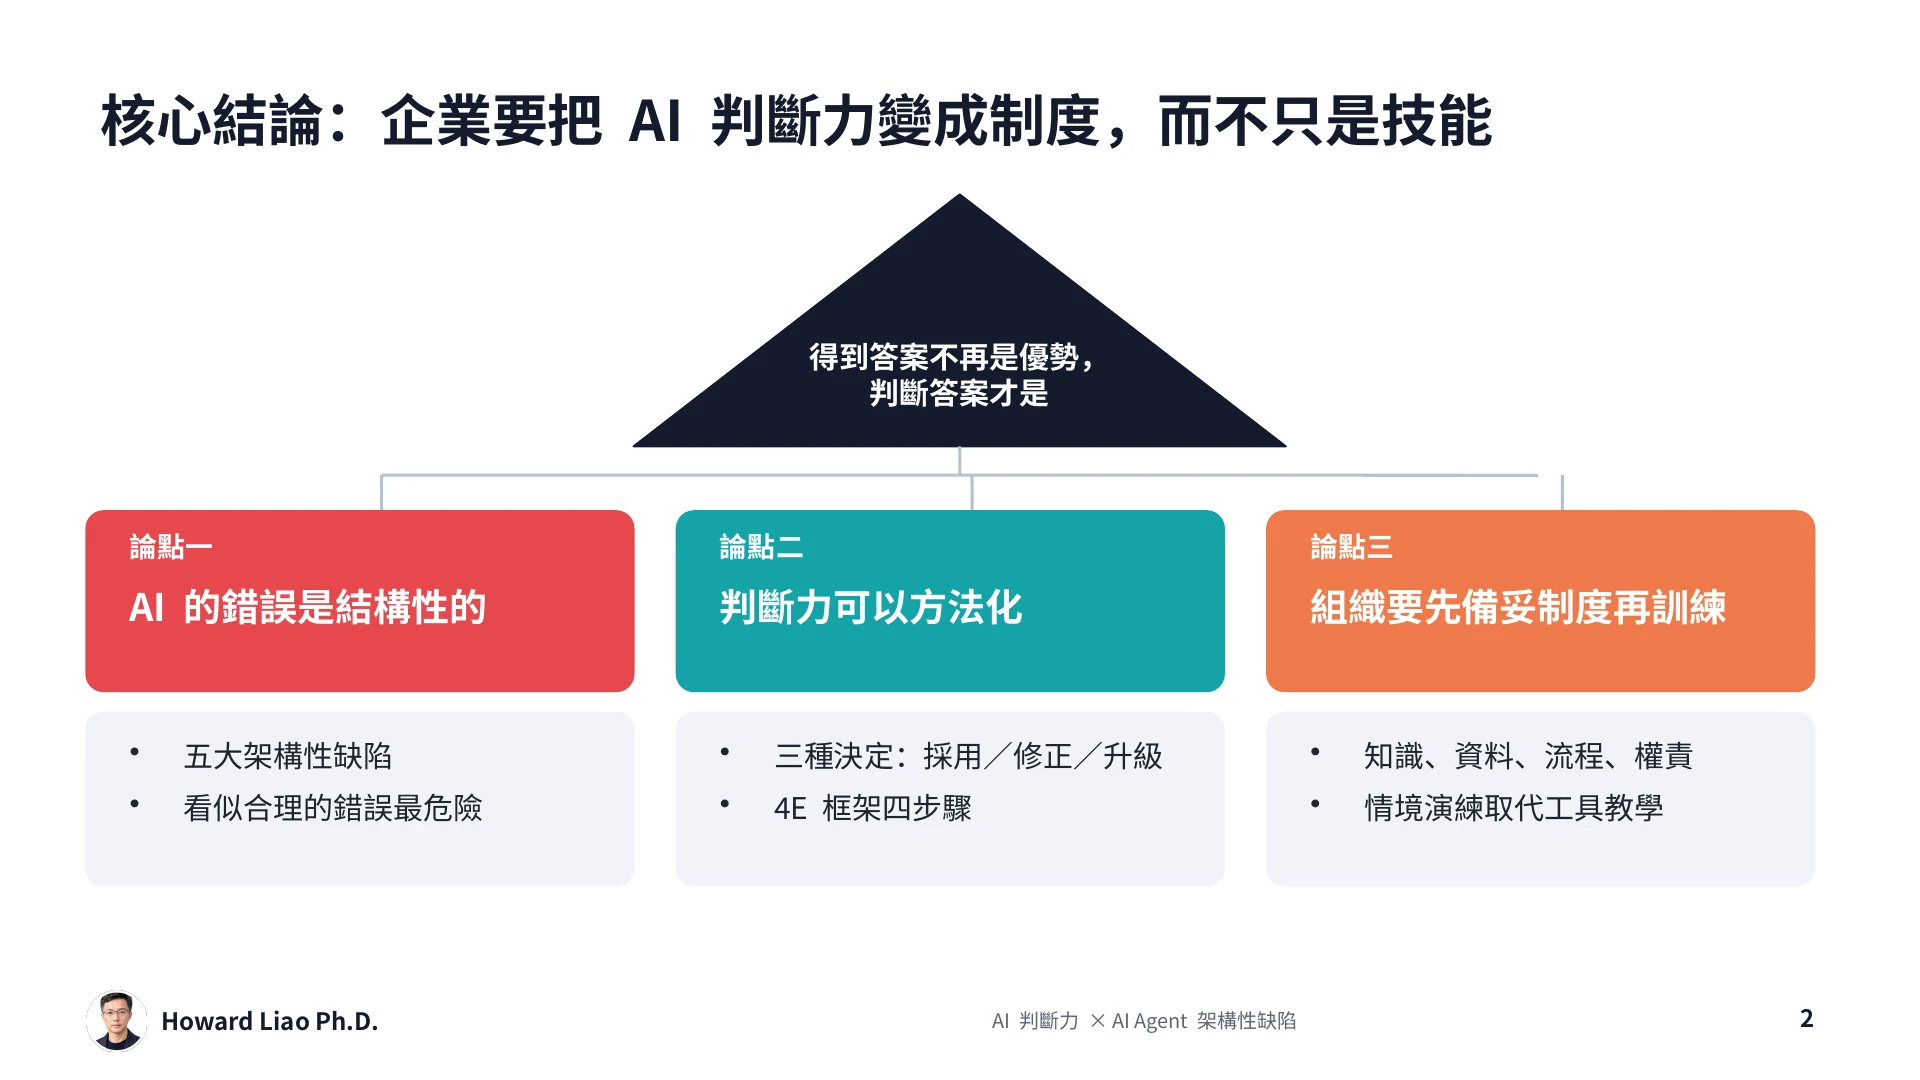
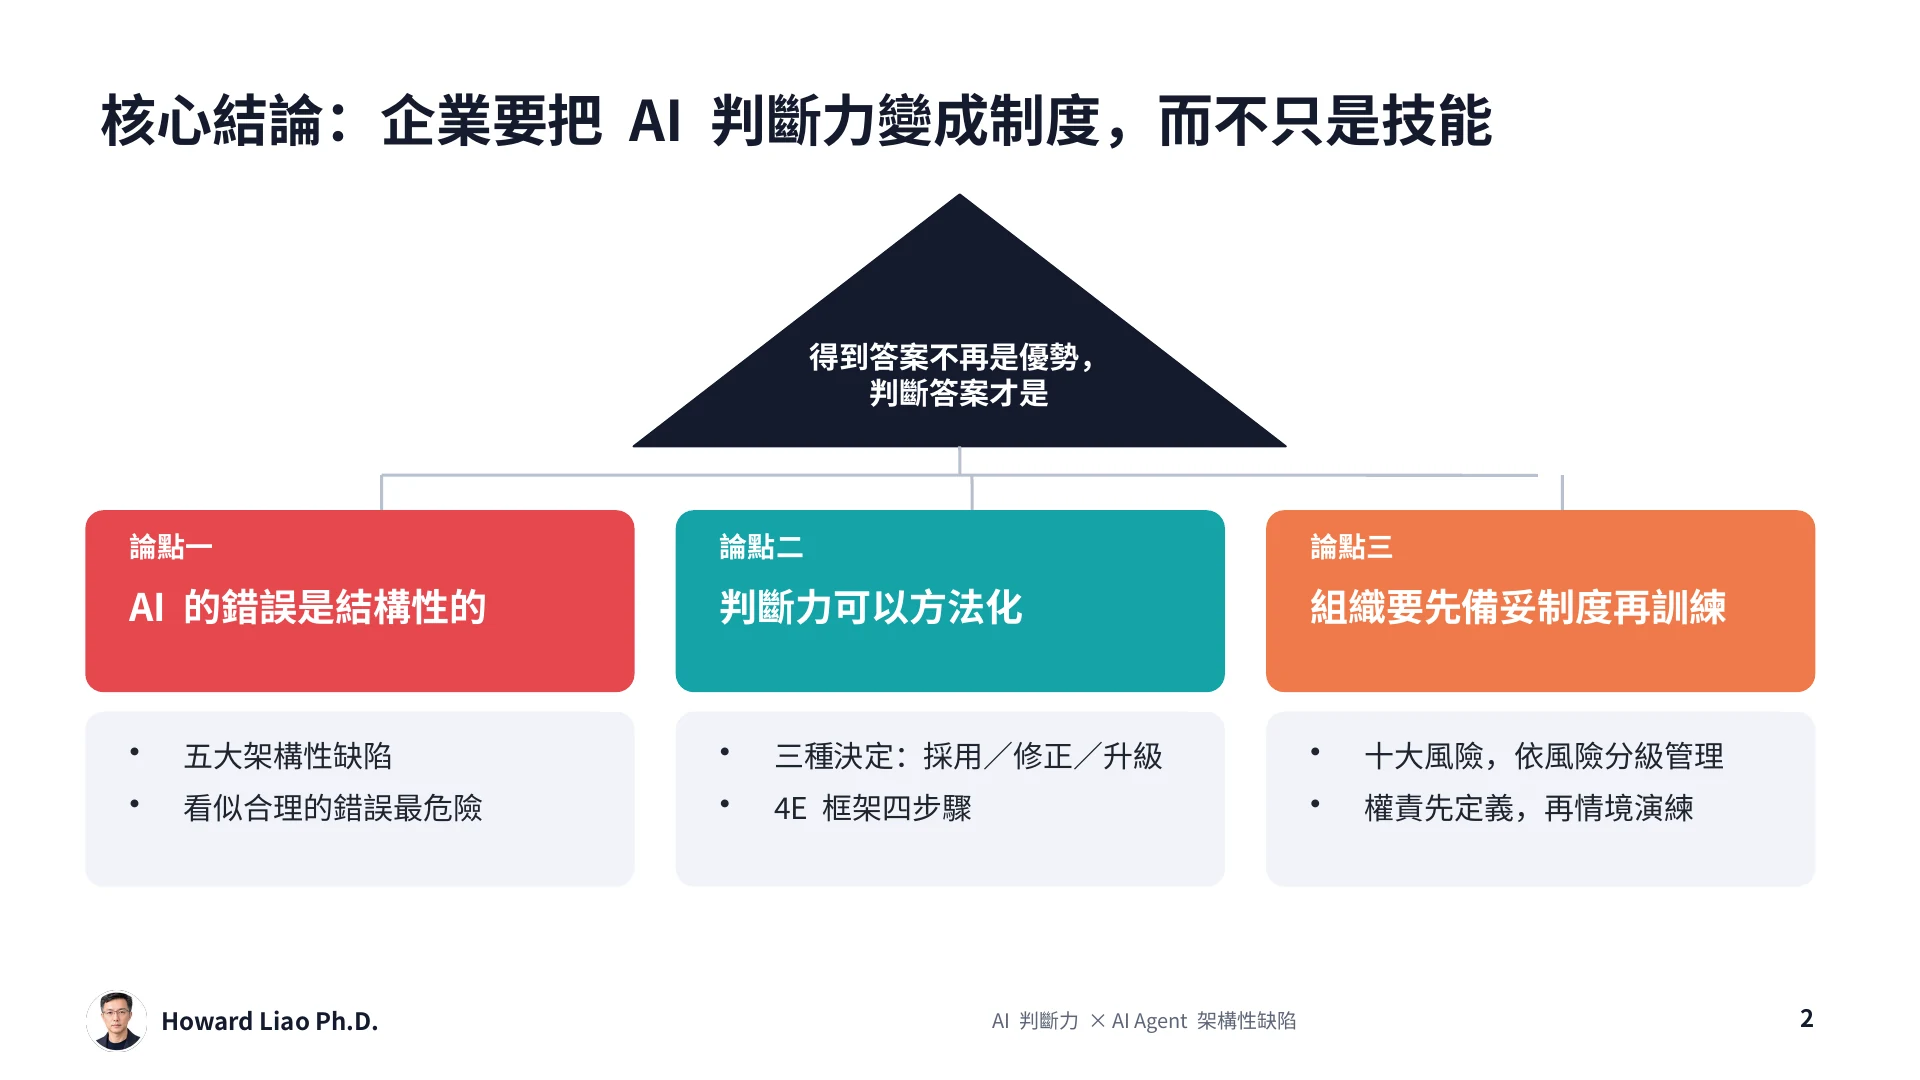
feat: add 004 ten AI risks and risk grading slides (27 pages)

Changed region(s): [[0.6875, 0.6722, 0.9062, 0.7639]]

diff --git a/index.html b/index.html
@@ -382,22 +382,23 @@
       </div>
 
       <div class="item-content">
-        <div class="item-badge">★ 25 頁線上簡報 ｜ AI 判斷力 × AI Agent 架構性缺陷</div>
+        <div class="item-badge">★ 27 頁線上簡報 ｜ AI 判斷力 × AI Agent 架構性缺陷</div>
         <h2 class="item-title">當 AI 的答案看起來都對，員工判斷得出錯誤嗎？</h2>
         <p class="item-desc">
-          以金字塔結構展開：AI Agent 五大架構性缺陷說明錯誤為何是結構性的；Approve／Correct／Escalate 三種決定與 4E 框架讓判斷力方法化；再以知識、資料、流程、權責建立 AI Ready 工作流程。
+          以金字塔結構展開：AI Agent 五大架構性缺陷說明錯誤為何是結構性的；Approve／Correct／Escalate 三種決定與 4E 框架讓判斷力方法化；再以十大 AI 風險分級，以及知識、資料、流程、權責建立 AI Ready 工作流程。
         </p>
         <div class="item-meta-tags">
           <span class="meta-tag">五大架構性缺陷</span>
           <span class="meta-tag">4E Framework</span>
           <span class="meta-tag">Approve／Correct／Escalate</span>
+          <span class="meta-tag">十大 AI 風險分級</span>
           <span class="meta-tag">金字塔結構 16:9</span>
         </div>
       </div>
 
       <div class="item-actions">
         <a href="004/" class="btn-item primary">
-          <span>🚀</span> <span>線上觀看 25 頁簡報</span>
+          <span>🚀</span> <span>線上觀看 27 頁簡報</span>
         </a>
       </div>
     </div>

diff --git a/004/index.html b/004/index.html
@@ -4,7 +4,7 @@
 <meta charset="utf-8">
 <meta name="viewport" content="width=device-width, initial-scale=1, viewport-fit=cover">
 <title>AI 判斷力 × AI Agent 架構性缺陷｜Howard Liao Ph.D.</title>
-<meta name="description" content="Howard Liao Ph.D.｜當 AI 的答案看起來都對，員工判斷得出錯誤嗎？AI 判斷力培養指南 × AI Agent 五大架構性缺陷，25 頁線上簡報。">
+<meta name="description" content="Howard Liao Ph.D.｜當 AI 的答案看起來都對，員工判斷得出錯誤嗎？AI 判斷力培養指南 × AI Agent 五大架構性缺陷，27 頁線上簡報。">
 <meta name="theme-color" content="#141B2D">
 <link rel="icon" href="assets/howard-liao-portrait-circle.png">
 <style>
@@ -65,14 +65,14 @@
   <footer>
     <button class="btn" id="gridBtn">總覽</button>
     <div class="bar"><i id="bar"></i></div>
-    <div class="count" id="count">1 / 25</div>
+    <div class="count" id="count">1 / 27</div>
     <button class="btn" id="fsBtn">全螢幕</button>
   </footer>
 </div>
 <div class="grid" id="grid"><button class="btn close" id="gridClose">關閉</button><div class="wrap" id="gridWrap"></div></div>
 <script>
 (() => {
-  const N = 25, V = "20261103c", pad = (n) => String(n).padStart(2, "0");
+  const N = 27, V = "20261103d", pad = (n) => String(n).padStart(2, "0");
   const frame = document.getElementById("frame"), bar = document.getElementById("bar"), count = document.getElementById("count");
   const slides = [];
   for (let i = 1; i <= N; i++) {

diff --git a/README.md b/README.md
@@ -25,7 +25,7 @@ Seminar/
 │   └── assets/                                                     # 報告人肖像與圖騰資產
 │
 ├── 004/                                                            # 【004 專題】AI 判斷力 × AI Agent 五大架構性缺陷
-│   ├── index.html                                                  # 25 頁線上簡報播放器（僅供線上觀看，不提供下載）
+│   ├── index.html                                                  # 27 頁線上簡報播放器（僅供線上觀看，不提供下載）
 │   ├── slides/                                                     # 投影片影像
 │   └── assets/                                                     # 報告人肖像
 │
@@ -50,5 +50,5 @@ Seminar/
 
 - **報告人**：Howard Liao Ph.D.
 - **展示入口**：[https://howardliao.github.io/Seminar/004/](https://howardliao.github.io/Seminar/004/)
-- **形式**：25 頁線上簡報，僅供線上觀看（不提供 PDF／PPTX 下載）
-- **核心內容**：金字塔結構——AI Agent 五大架構性缺陷（長上下文退化、記憶污染、自我修正失效、目標不對齊、交接失真）、Approve／Correct／Escalate 三種決定、4E Framework、知識／資料／流程／權責與情境演練。
+- **形式**：27 頁線上簡報，僅供線上觀看（不提供 PDF／PPTX 下載）
+- **核心內容**：金字塔結構——AI Agent 五大架構性缺陷（長上下文退化、記憶污染、自我修正失效、目標不對齊、交接失真）、Approve／Correct／Escalate 三種決定、4E Framework、十大 AI 風險與風險分級、知識／資料／流程／權責與情境演練。
